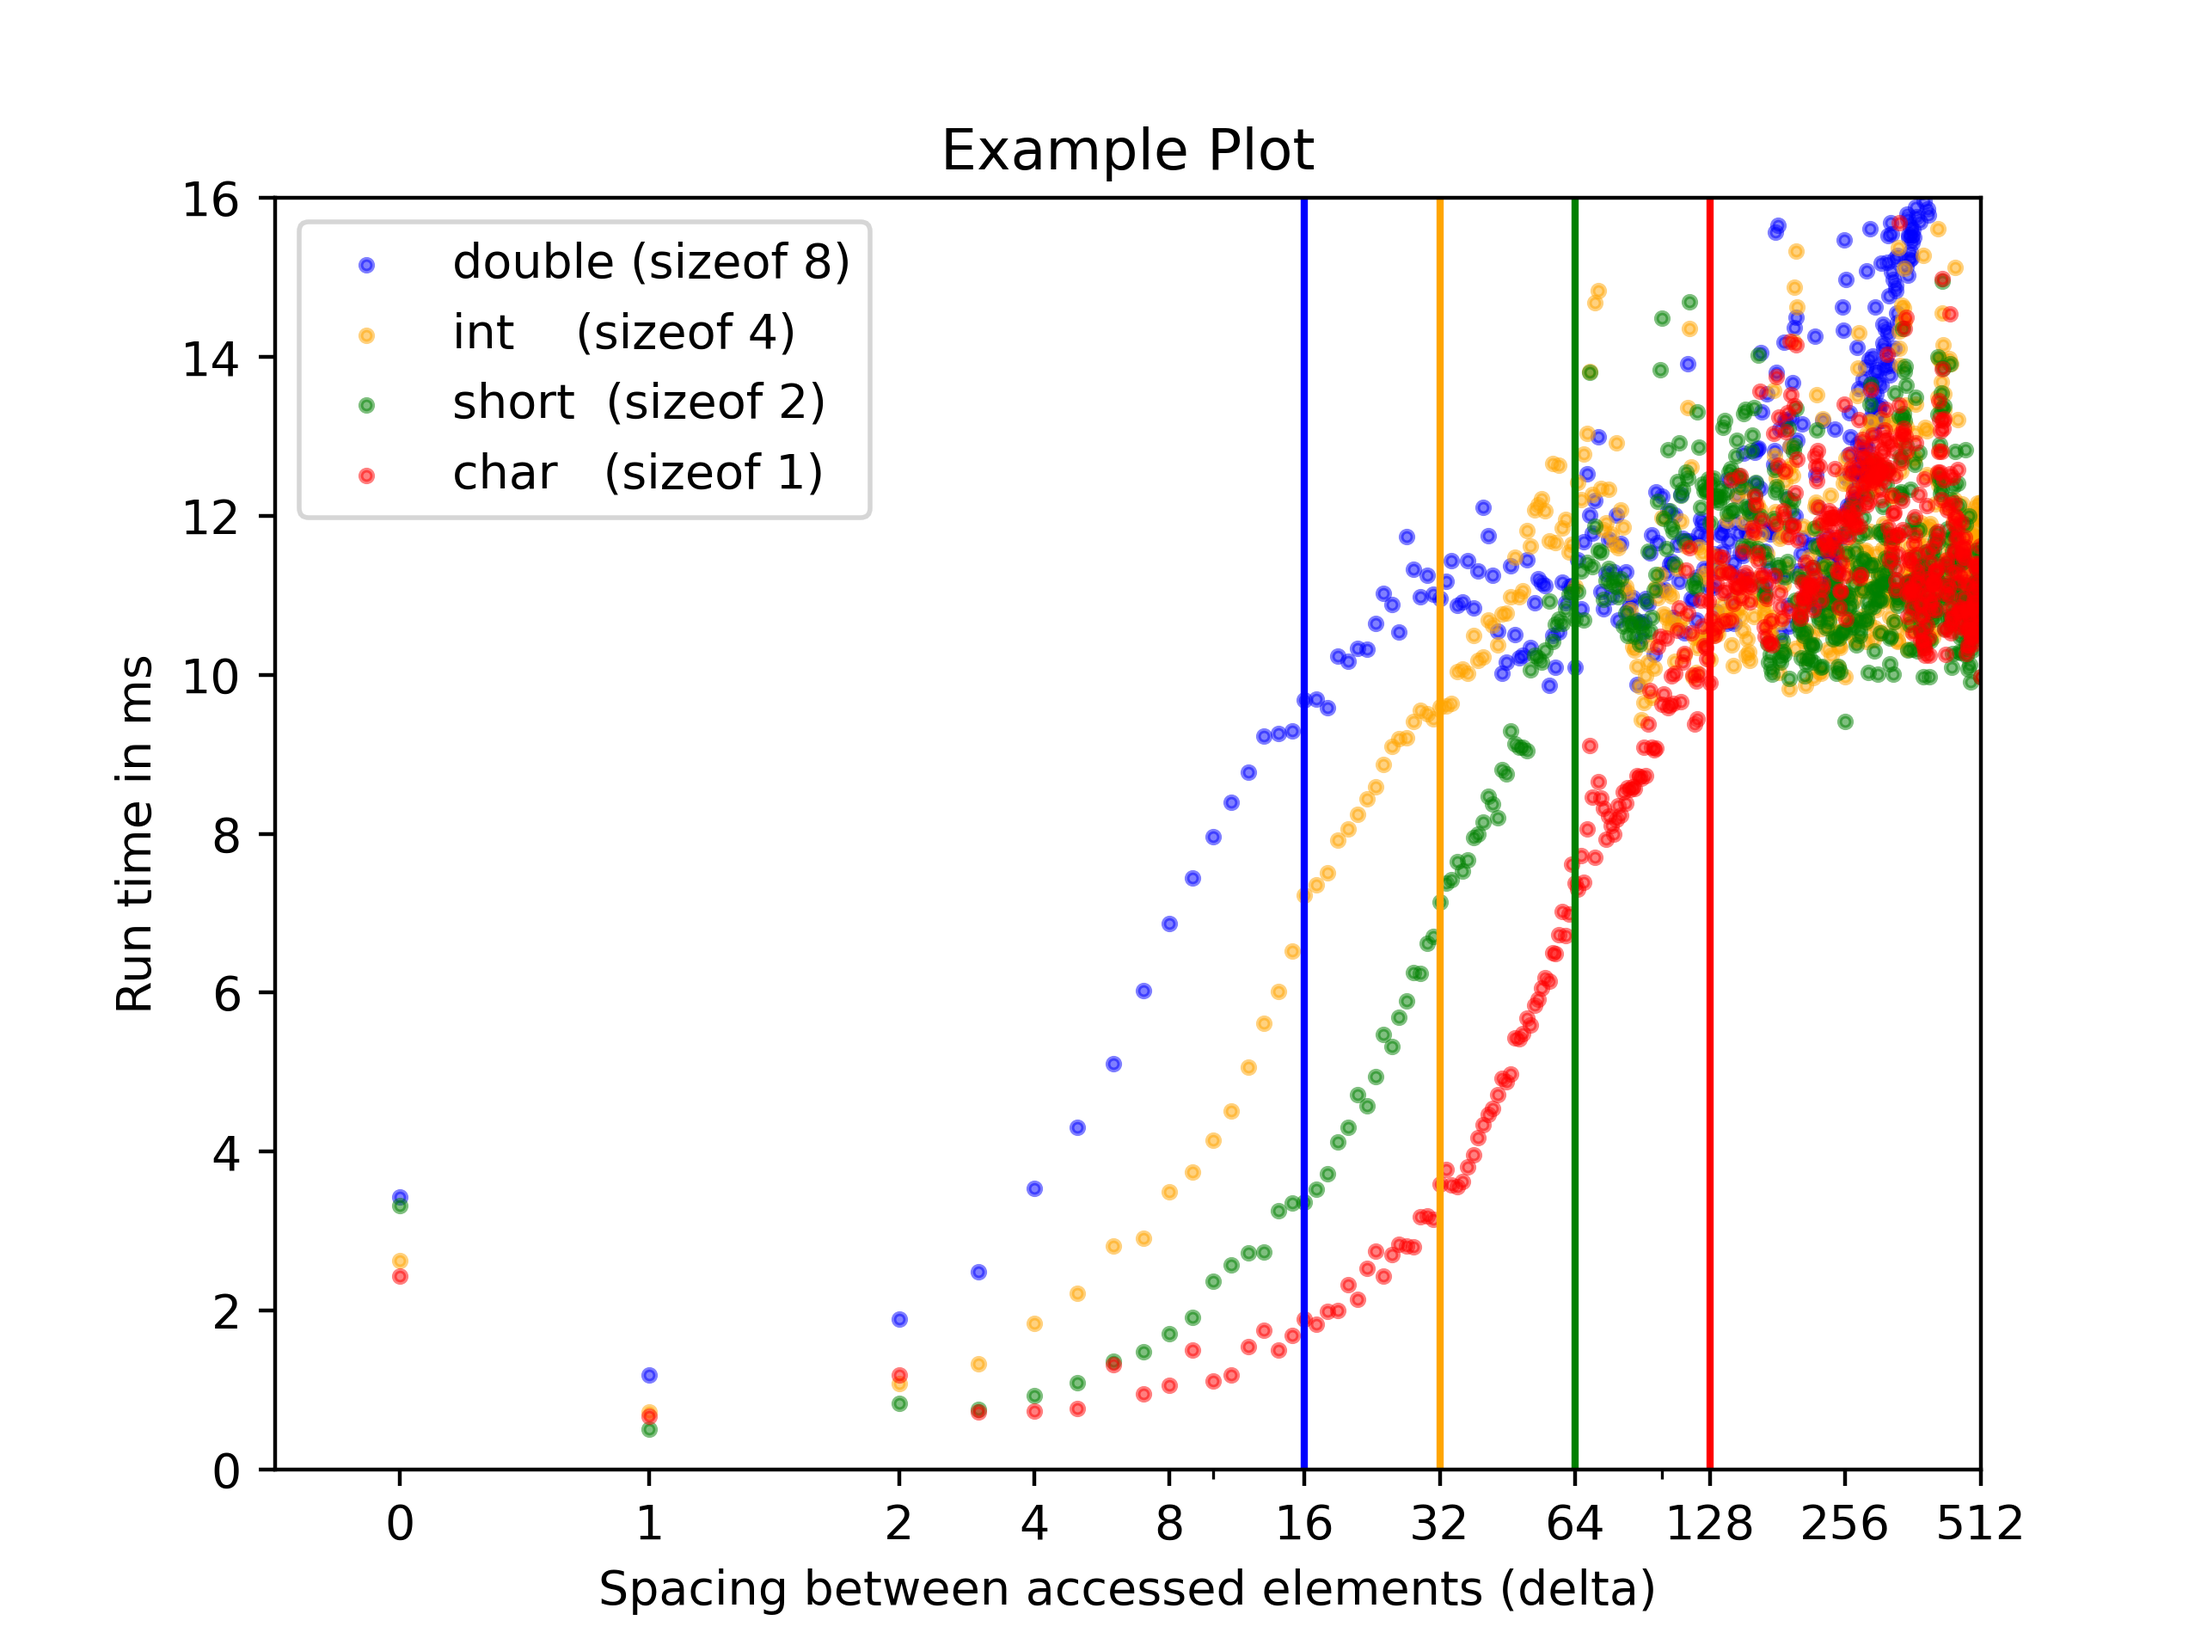
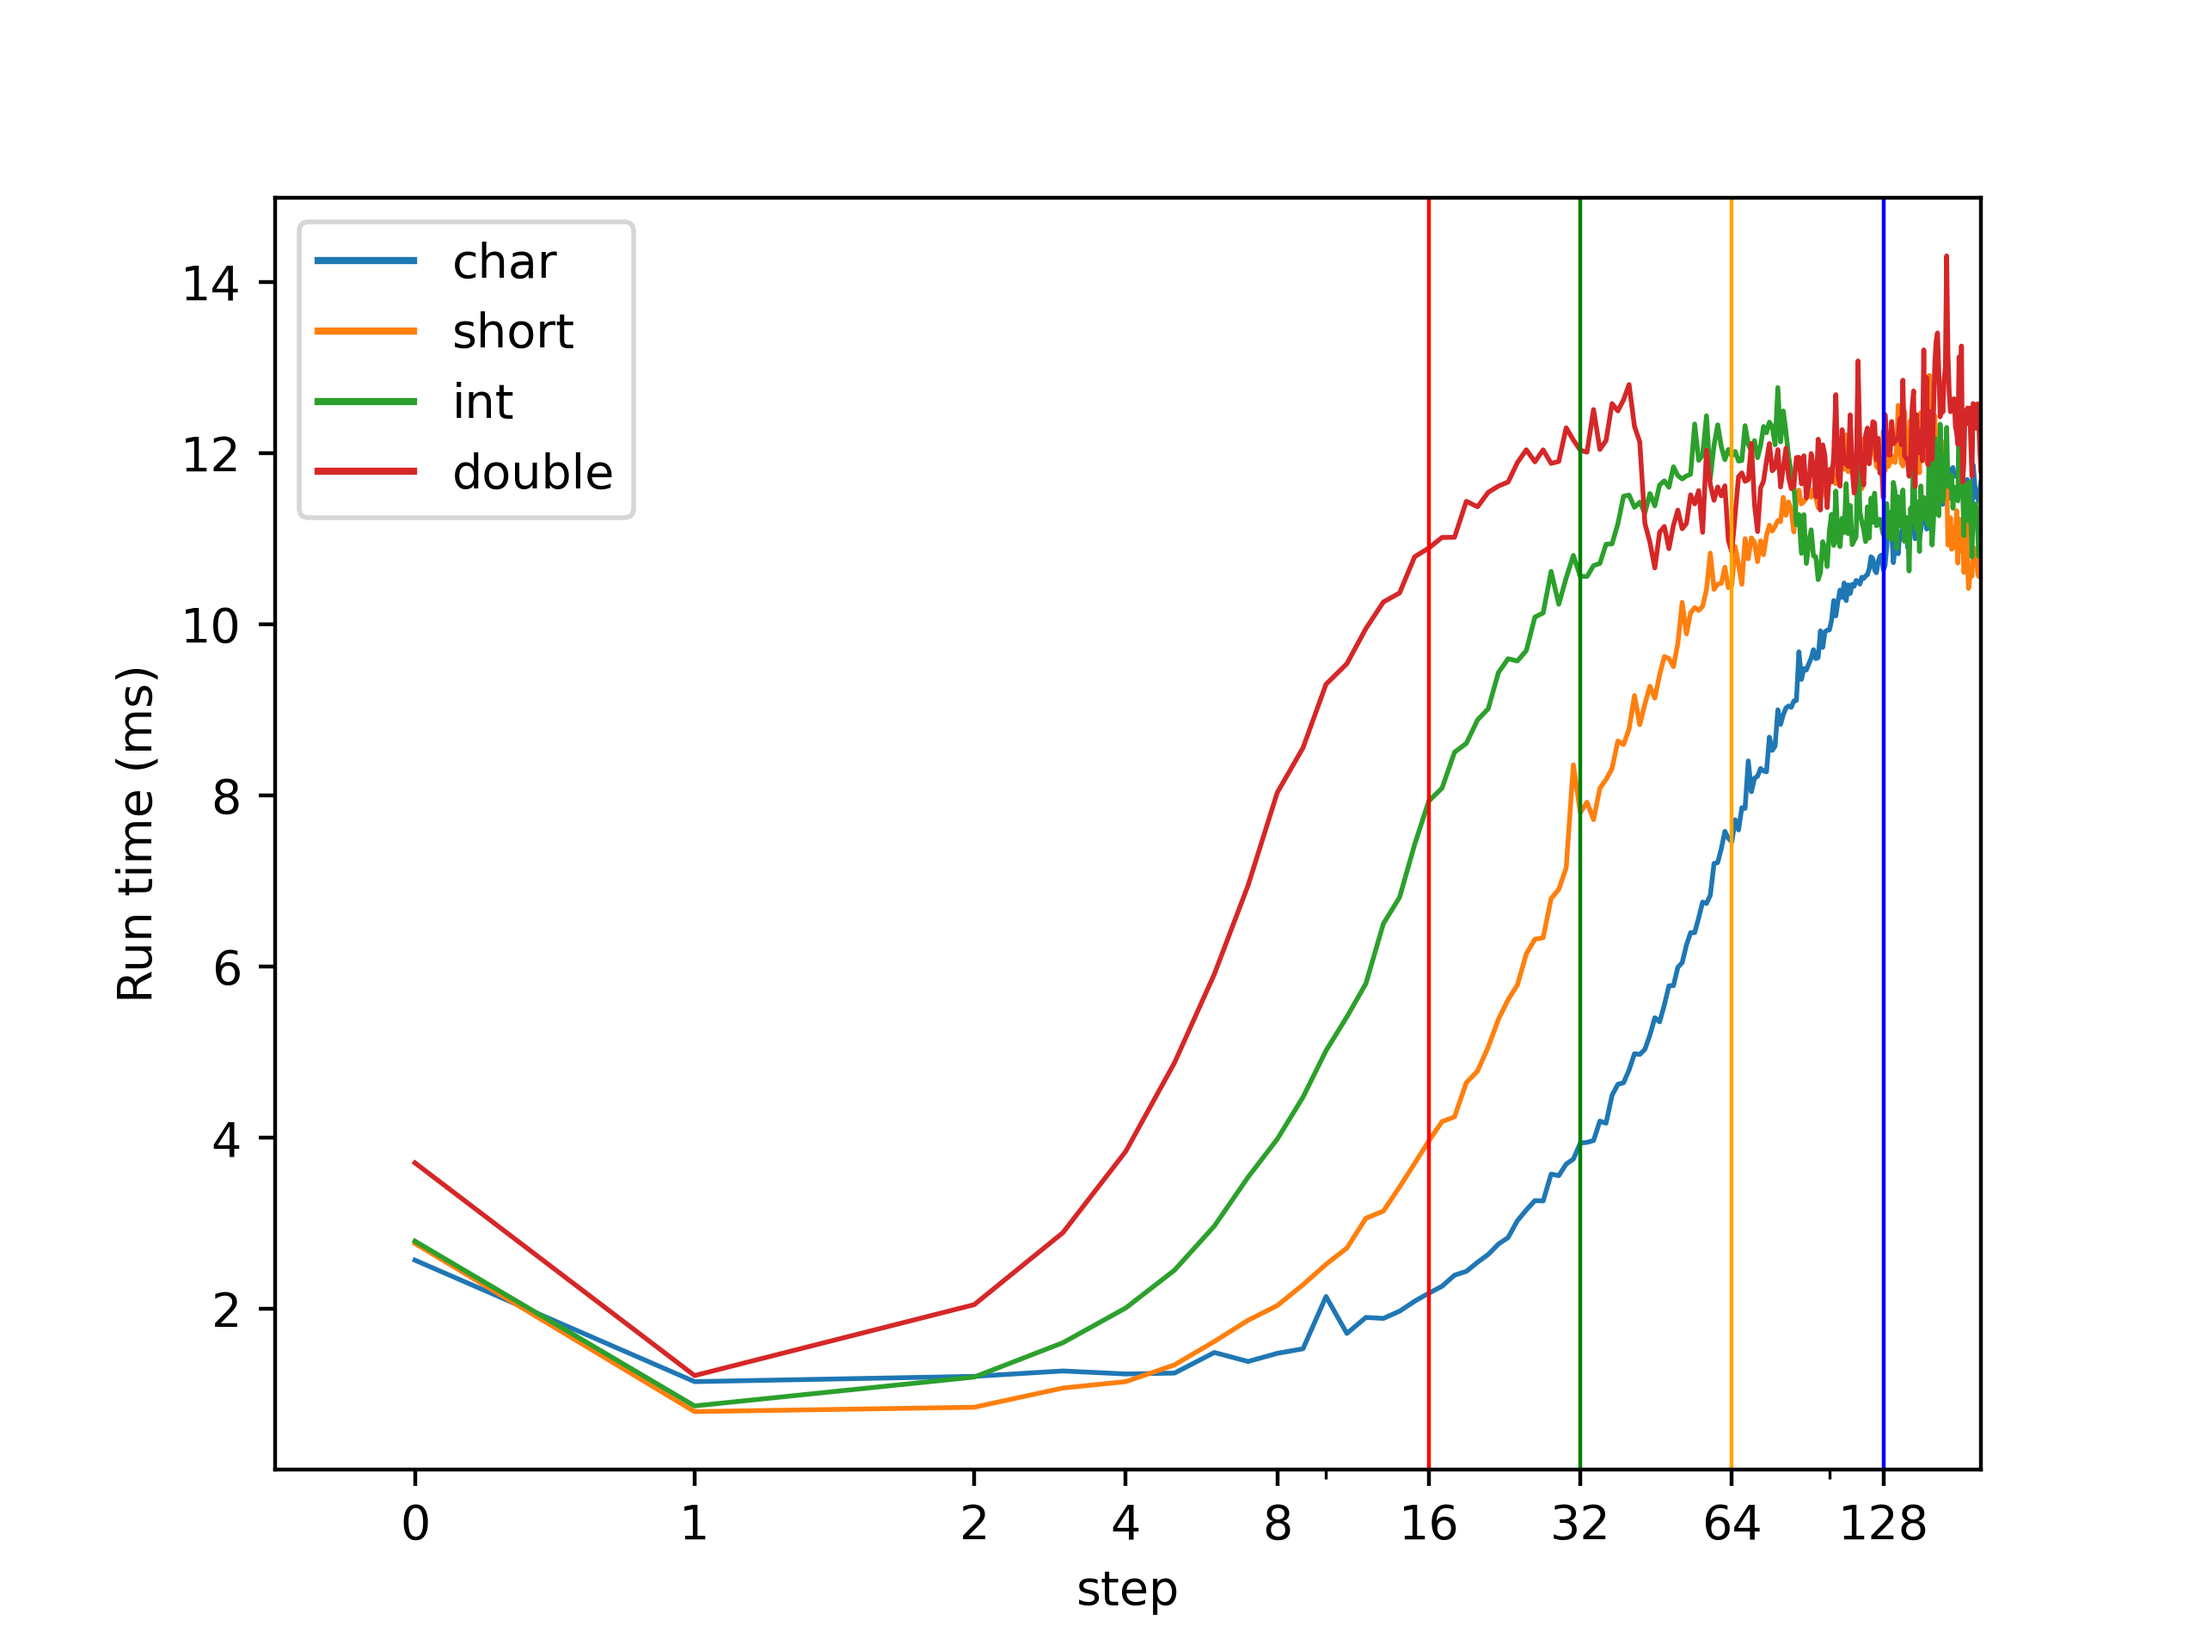
Cache associativity

diff --git a/doc/index.html b/doc/index.html
@@ -191,10 +191,22 @@ TYPE        | sizeof    | alignof
 </code></pre>
 <p>TODO m_alignement.svg</p>
 <h2 id="impact-of-cache-lines">Impact of cache lines</h2>
-<div class="sourceCode" id="cb3"><pre class="sourceCode cpp"><code class="sourceCode cpp"><span id="cb3-1"><a href="#cb3-1"></a><span class="kw">constexpr</span> <span class="bu">std::</span>size_t nb_elem = <span class="dv">513</span> * <span class="dv">1024</span> * <span class="dv">1024</span>;</span>
-<span id="cb3-2"><a href="#cb3-2"></a><span class="bu">std::</span>vector&lt;<span class="dt">char</span>&gt; vec_char(nb_elem);</span>
-<span id="cb3-3"><a href="#cb3-3"></a><span class="cf">for</span> (<span class="bu">std::</span>size_t i = <span class="dv">0</span>; i &lt; <span class="dv">1024</span> * <span class="dv">1024</span>; i++)</span>
-<span id="cb3-4"><a href="#cb3-4"></a>    vec[i * delta] += <span class="dv">1</span>;</span></code></pre></div>
+<div class="sourceCode" id="cb3"><pre class="sourceCode cpp"><code class="sourceCode cpp"><span id="cb3-1"><a href="#cb3-1"></a><span class="pp">#pragma once</span></span>
+<span id="cb3-2"><a href="#cb3-2"></a><span class="pp">#include </span><span class="im">&lt;vector&gt;</span></span>
+<span id="cb3-3"><a href="#cb3-3"></a><span class="pp">#include </span><span class="im">&lt;assert.h&gt;</span></span>
+<span id="cb3-4"><a href="#cb3-4"></a><span class="kw">namespace</span> cache</span>
+<span id="cb3-5"><a href="#cb3-5"></a>{</span>
+<span id="cb3-6"><a href="#cb3-6"></a>    <span class="kw">template</span> &lt;<span class="kw">typename</span> T&gt;</span>
+<span id="cb3-7"><a href="#cb3-7"></a>    <span class="dt">void</span> touche_every_step(</span>
+<span id="cb3-8"><a href="#cb3-8"></a>        <span class="bu">std::</span>vector&lt;T&gt;&amp; vecElem, </span>
+<span id="cb3-9"><a href="#cb3-9"></a>        <span class="bu">std::</span>size_t delta, </span>
+<span id="cb3-10"><a href="#cb3-10"></a>        <span class="bu">std::</span>size_t nb_touch)</span>
+<span id="cb3-11"><a href="#cb3-11"></a>    {  </span>
+<span id="cb3-12"><a href="#cb3-12"></a>        <span class="ot">assert</span>(nb_touch*delta &lt; vecElem.size());</span>
+<span id="cb3-13"><a href="#cb3-13"></a>        <span class="cf">for</span> (<span class="bu">std::</span>size_t i = <span class="dv">0</span>; i &lt; nb_touch; i++)</span>
+<span id="cb3-14"><a href="#cb3-14"></a>            vecElem[i * delta] += <span class="dv">1</span>;</span>
+<span id="cb3-15"><a href="#cb3-15"></a>    }</span>
+<span id="cb3-16"><a href="#cb3-16"></a>} <span class="co">// namespace cache</span></span></code></pre></div>
 <figure>
 <img src="m_cache_lines.png" alt="" /><figcaption>The impact of cache lines on</figcaption>
 </figure>

diff --git a/python/m_cache_lines.py b/python/m_cache_lines.py
@@ -3,53 +3,52 @@ import seaborn as sns
 import pandas as pd
 import re
 
-def build_data_set(content, types=["char","short","int","double"]):
+
+def build_data_set(content, types=["char", "short", "int", "double"]):
     df = pd.DataFrame()
     for t in types:
         print(t)
-        values = re.findall(rf"Touching every (.+) index on type {t} (.+) \(ms\)", content)
-        x = [float(t[0]) for t in values]
-        y = [float(t[1]) for t in values]
-        df[t] = y
-        df["step"] = x
-
+        values = re.findall(rf"Touching every (.+) index on type (.+) (.+) \(ms\)", content)
+        step = [float(t[0]) for t in values]
+        value_type = [str(t[1]) for t in values]
+        time = [float(t[2]) for t in values]
+        df["step"] = step
+        df["Value type"] = value_type
+        df["Run time (ms)"] = time
     return df
 
+
 def main():
-    input_file="build/m_cache_lines.txt"
-    output_img="doc/m_cache_lines.png"
+    input_file = "build/m_cache_lines.txt"
+    output_img = "doc/m_cache_lines.png"
 
-
-    with open(input_file,'r') as result:
+    with open(input_file, "r") as result:
         content = result.read()
-    
+
     df = build_data_set(content)
 
-    plt.axvline(16,color='blue')
-    plt.axvline(32,color='orange')
-    plt.axvline(64,color='green')
-    plt.axvline(128,color='red')
+    sns.lineplot(data=df, x="step", y="Run time (ms)",hue="Value type",ci=None,linewidth=1.0)
 
-    plt.scatter(df["step"], df["double"],c='blue',  label='double (sizeof 8)',s=6.0,alpha=0.5)
-    plt.scatter(df["step"], df["int"],c='orange',   label='int    (sizeof 4)',s=6.0,alpha=0.5)
-    plt.scatter(df["step"], df["short"],c='green',  label='short  (sizeof 2)',s=6.0,alpha=0.5)
-    plt.scatter(df["step"], df["char"],c='red',     label='char   (sizeof 1)',s=6.0,alpha=0.5)
+    plt.axvline(16, color="red",linewidth=0.8)
+    plt.axvline(32, color="green",linewidth=0.8)
+    plt.axvline(64, color="orange",linewidth=0.8)
+    plt.axvline(128, color="blue",linewidth=0.8)
 
-    plt.title('Example Plot')
-    plt.ylabel('Run time in ms')
-    plt.xlabel('Spacing between accessed elements (delta)')
+    #plt.title("Example Plot")
+    #plt.ylabel("Run time in ms")
+    #plt.xlabel("Spacing between accessed elements (delta)")
 
     plt.legend()
 
-    plt.xscale('symlog')
-    plt.xticks([0,1,2,4,8,16,32,64,128,256,512], [0,1,2,4,8,16,32,64,128,256,512])
-    plt.xlim([-0.5,513])
-    plt.ylim([0,16])
+    plt.xscale("symlog")
+    plt.xticks(
+        [0, 1, 2, 4, 8, 16, 32, 64, 128, 256, 512],
+        [0, 1, 2, 4, 8, 16, 32, 64, 128, 256, 512],
+    )
+    plt.xlim([-0.5, df['step'].max()])
+    # plt.ylim([0,16])
     plt.savefig(output_img, dpi=400)
 
 
-
-
-
-
 main()
+

diff --git a/src/m_cache_lines.cpp b/src/m_cache_lines.cpp
@@ -1,35 +1,35 @@
 #include "ScopedTimer.h"
 #include <vector>
 #include <sstream>
+#include "f_cache_lines.hpp"
 
-constexpr std::size_t nb_elem = 513 * 1024 * 1024;
+constexpr std::size_t nb_touch = 1024 * 1024;
+constexpr std::size_t nb_elem = 256 * nb_touch;
 std::vector<char> vec_char(nb_elem);
 std::vector<short> vec_short(nb_elem);
 std::vector<int> vec_int(nb_elem);
-std::vector<float> vec_float(nb_elem);
 std::vector<double> vec_double(nb_elem);
 
 template <typename T>
-void touch_every_step(std::size_t delta, const std::string &type, T &vec)
+void scoped_touch_every_step(std::vector<T> &vec_elem, std::size_t delta, const std::string &type)
 {
     std::ostringstream message;
     message << "Touching every " << delta << " index on type " << type << " ";
     std::string m{message.str()};
     cache::ScopedTimer timer(m.c_str());
-    for (std::size_t i = 0; i < 1024 * 1024; i++)
-        vec[i * delta] += 1;
+    cache::touche_every_step(vec_elem, delta, nb_touch);
 }
 
 int main()
 {
-    constexpr std::size_t nb_repeat = 1;
-    constexpr std::size_t max_step = 512;
+    constexpr std::size_t max_step = 200;
+    constexpr std::size_t nb_repeat = 25;
     for (std::size_t repeat = 0; repeat < nb_repeat; ++repeat)
         for (std::size_t step = 0; step <= max_step; ++step)
         {
-            touch_every_step(step, "char", vec_char);
-            touch_every_step(step, "short", vec_short);
-            touch_every_step(step, "int", vec_int);
-            touch_every_step(step, "double", vec_double);
+            scoped_touch_every_step<char>(vec_char, step, "char");
+            scoped_touch_every_step<short>(vec_short, step, "short");
+            scoped_touch_every_step<int>(vec_int, step, "int");
+            scoped_touch_every_step<double>(vec_double, step, "double");
         }
 }

diff --git a/doc/index.md b/doc/index.md
@@ -121,10 +121,22 @@ TODO m_alignement.svg
 ## Impact of cache lines
 
 ```cpp
-constexpr std::size_t nb_elem = 513 * 1024 * 1024;
-std::vector<char> vec_char(nb_elem);
-for (std::size_t i = 0; i < 1024 * 1024; i++)
-    vec[i * delta] += 1;
+#pragma once
+#include <vector>
+#include <assert.h>
+namespace cache
+{
+    template <typename T>
+    void touche_every_step(
+        std::vector<T>& vecElem, 
+        std::size_t delta, 
+        std::size_t nb_touch)
+    {  
+        assert(nb_touch*delta < vecElem.size());
+        for (std::size_t i = 0; i < nb_touch; i++)
+            vecElem[i * delta] += 1;
+    }
+} // namespace cache
 ```
 
 

diff --git a/doc/index.input.md b/doc/index.input.md
@@ -26,10 +26,7 @@ TODO m_alignement.svg
 ## Impact of cache lines
 
 ```cpp
-constexpr std::size_t nb_elem = 513 * 1024 * 1024;
-std::vector<char> vec_char(nb_elem);
-for (std::size_t i = 0; i < 1024 * 1024; i++)
-    vec[i * delta] += 1;
+{{src/f_cache_lines.hpp}}
 ```
 
 
